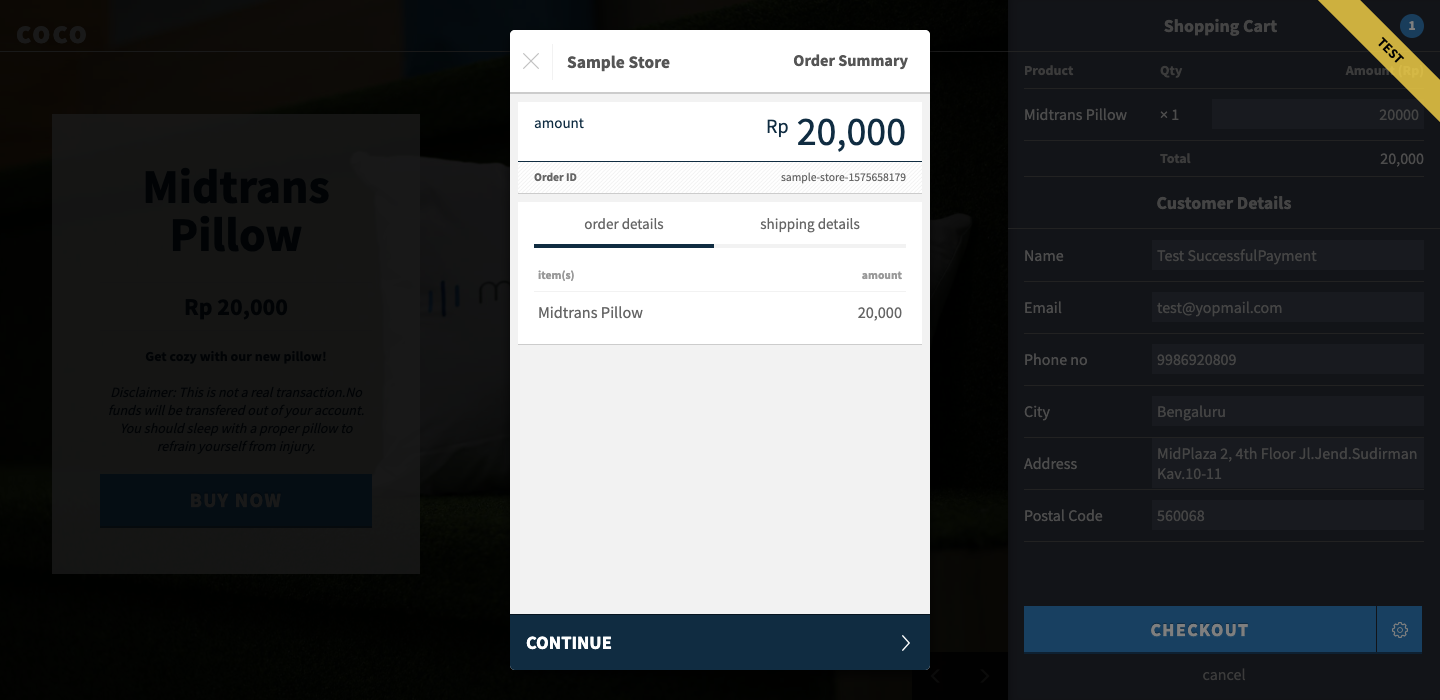
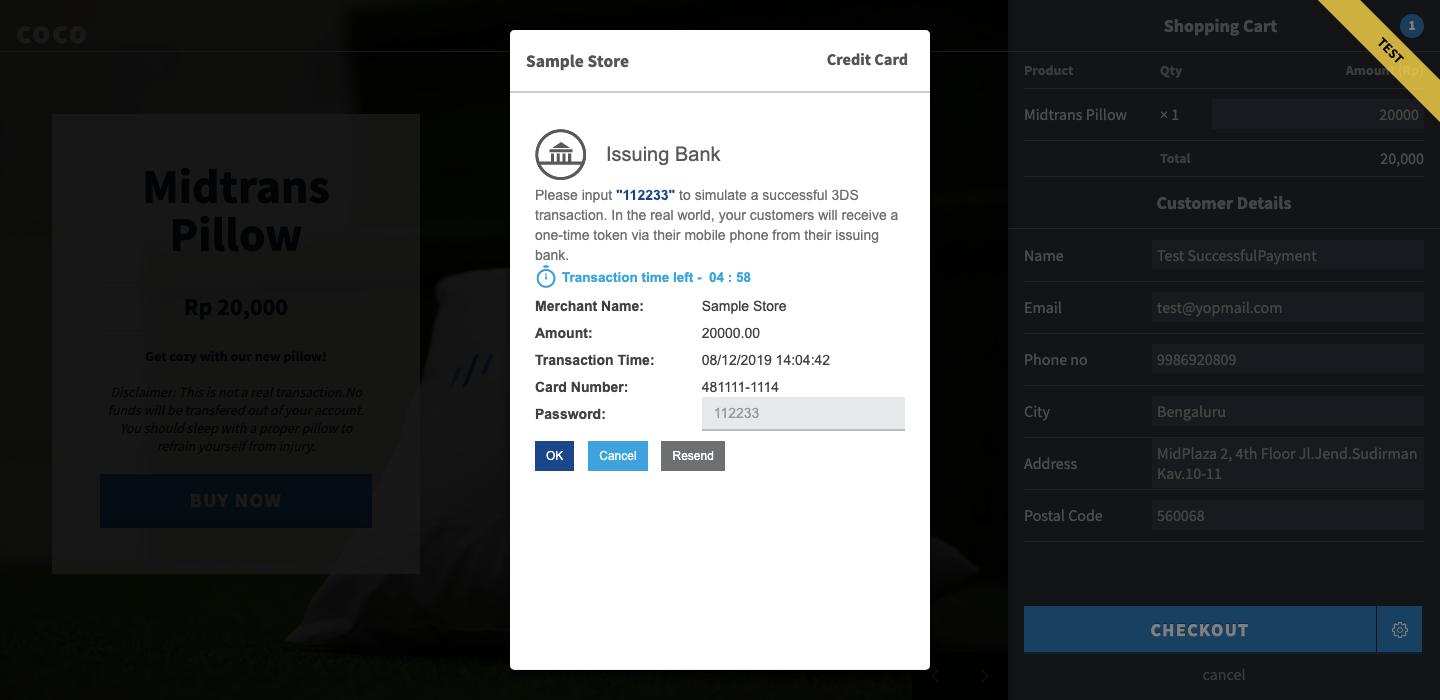
Added testcases for SuccessfulPaymentFlow page

diff --git a/src/main/java/pages/SuccessfulPaymentFlow.java b/src/main/java/pages/SuccessfulPaymentFlow.java
@@ -1,5 +1,6 @@
 package pages;
 
+import org.openqa.selenium.JavascriptExecutor;
 import org.openqa.selenium.WebDriver;
 import org.openqa.selenium.WebElement;
 import org.openqa.selenium.support.FindBy;
@@ -41,7 +42,38 @@ public class SuccessfulPaymentFlow {
     WebElement iFramePaymentOption;
     @FindBy(xpath = "//span[contains(@class, 'text-amount-title')]")
     WebElement assertAmountText;
-
+    @FindBy(xpath = "(//a[contains(@class, 'text-actionable')]/span)[1]")
+    WebElement assertOrderDetails;
+    @FindBy(xpath = "(//a[contains(@class, 'text-actionable')]/span)[2]")
+    WebElement assertShippingDetails;
+    @FindBy(xpath = "(//span[contains(@class, 'item-name')])[1]")
+    WebElement assertMidtransPillowText;
+    @FindBy(xpath = "(//td[contains(@class, 'table-amount text-body')])[1]")
+    WebElement assertAmountDetailsText;
+    @FindBy(xpath = "(//a[contains(@class, 'button-main-content')])[1]")
+    WebElement clickContinueButton;
+    @FindBy(xpath = "(//div[contains(@class, 'list-title text-actionable-bold')])[1]")
+    WebElement clickCreditCard;
+    @FindBy(xpath = "(//h1[contains(@class, 'logo-store')])[1]")
+    WebElement assertSampleStore;
+    @FindBy(xpath = "(//span[contains(@class, 'text-amount-amount')])[1]")
+    WebElement assertFinalAmount;
+    @FindBy(xpath = "//input[contains(@name, 'cardnumber')]")
+    WebElement enterCardNumber;
+    @FindBy(xpath = "(//input[contains(@type, 'tel')])[2]")
+    WebElement enterExpiryDate;
+    @FindBy(xpath = "(//input[contains(@type, 'tel')])[3]")
+    WebElement enterCVV;
+    @FindBy(xpath = "//div[contains(@class, 'button-main show')]")
+    WebElement clickPayNowButton;
+    @FindBy(xpath = "//div[contains(@class, 'col-xs-7')]/input[contains(@id, 'PaRes')]")
+    WebElement enterPassword;
+    @FindBy(xpath = "//button[contains(@type, 'submit')]")
+    WebElement clickOKButton;
+    @FindBy(xpath = "(//div[contains(@class, 'text-sucess text-bold')])[1]")
+    WebElement assertTransactionSuccessfulText;
+    @FindBy(xpath = "//span[contains(@class, 'sprite modal-close-dark')]")
+    WebElement clickImportantInfoPopUp;
 
 
 
@@ -69,8 +101,8 @@ public class SuccessfulPaymentFlow {
 
     public void enter_PhoneNo() {
         enterPhoneNo.clear();
-        enterPhoneNo.sendKeys("9986920809");
-        log.info("Entered Phone No: 9986920809");
+        enterPhoneNo.sendKeys("9876543210");
+        log.info("Entered Phone No: 9876543210");
     }
 
     public void enter_City() {
@@ -92,22 +124,71 @@ public class SuccessfulPaymentFlow {
 
     public void clickCheckoutButton() throws Exception {
         buttonCheckout.click();
-        Thread.sleep(3000);
+        Thread.sleep(2000);
     }
 
-    public void paymentPage() {
+    public void paymentPage() throws Exception {
         driver.switchTo().defaultContent();
         driver.switchTo().frame(iFramePaymentOption);
 
         Assert.assertEquals(assertAmountText.getText(), "amount");
+        log.info("Amount text verified");
+        Assert.assertEquals(assertOrderDetails.getText(), "order details");
+        log.info("Order Details text verified");
+        Assert.assertEquals(assertMidtransPillowText.getText(), "Midtrans Pillow");
+        log.info("Midtrans Pillow text verified");
+        Assert.assertEquals(assertAmountDetailsText.getText(),"20,000");
+        log.info("Amount: 20000");
 
+        assertShippingDetails.click();
+        Assert.assertEquals(assertShippingDetails.getText(), "shipping details");
+        log.info("Shipping Details text verified");
+
+        Assert.assertEquals(clickContinueButton.getText(), "CONTINUE");
+        log.info("Continue button text verified");
+        clickContinueButton.click();
 
         driver.switchTo().parentFrame();
         driver.switchTo().defaultContent();
     }
 
+    public void enterCreditCardDetails(String CreditCardNumber) throws Exception {
+        driver.switchTo().defaultContent();
+        driver.switchTo().frame(iFramePaymentOption);
 
+        Assert.assertEquals(assertSampleStore.getText(), "Sample Store");
+        log.info("Sample Store text verified");
+        clickCreditCard.click();
 
+        Assert.assertEquals(assertFinalAmount.getText(), "19,000");
+        log.info("Final Amount text verified");
+
+        enterCardNumber.sendKeys(CreditCardNumber);
+        Thread.sleep(1000);
+        enterExpiryDate.sendKeys("02/20");
+        enterCVV.sendKeys("123");
+        clickImportantInfoPopUp.click();
+        clickPayNowButton.click();
+        Thread.sleep(8000);
+
+        driver.switchTo().parentFrame();
+        driver.switchTo().defaultContent();
+    }
+
+    public void enterOTP() throws Exception {
+        driver.switchTo().defaultContent();
+        driver.switchTo().frame(iFramePaymentOption);
+//        enterPassword.click();
+        enterPassword.sendKeys("112233");
+        Thread.sleep(3000);
+        clickOKButton.click();
+        Thread.sleep(3000);
+        Assert.assertEquals(assertTransactionSuccessfulText.getText(), "19,000");
+        log.info("Transaction Successful text verified");
+
+        driver.switchTo().parentFrame();
+        driver.switchTo().defaultContent();
+    }
 
 
 }

diff --git a/src/test/java/successfulpayment/SuccessfulPaymentTests.java b/src/test/java/successfulpayment/SuccessfulPaymentTests.java
@@ -30,6 +30,8 @@ public class SuccessfulPaymentTests extends BaseTests {
         successfulPaymentFlow.enter_PostalCode();
         successfulPaymentFlow.clickCheckoutButton();
         successfulPaymentFlow.paymentPage();
+        successfulPaymentFlow.enterCreditCardDetails("4811111111111114");
+        successfulPaymentFlow.enterOTP();
 
     }
 
